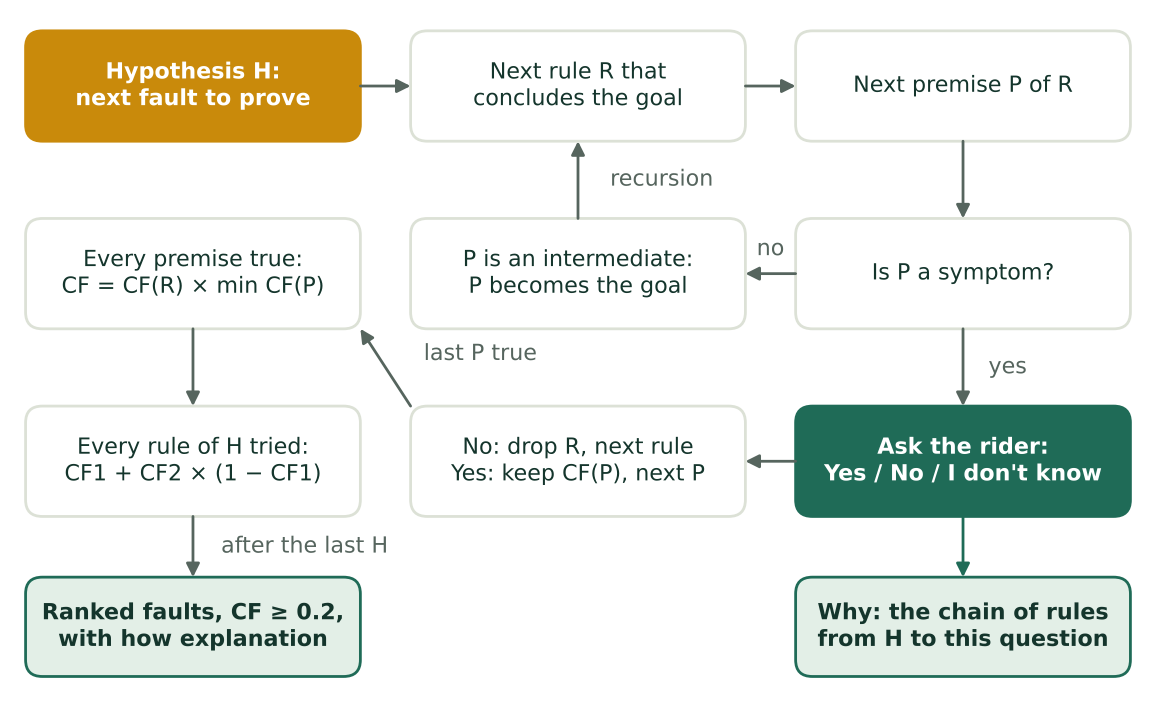
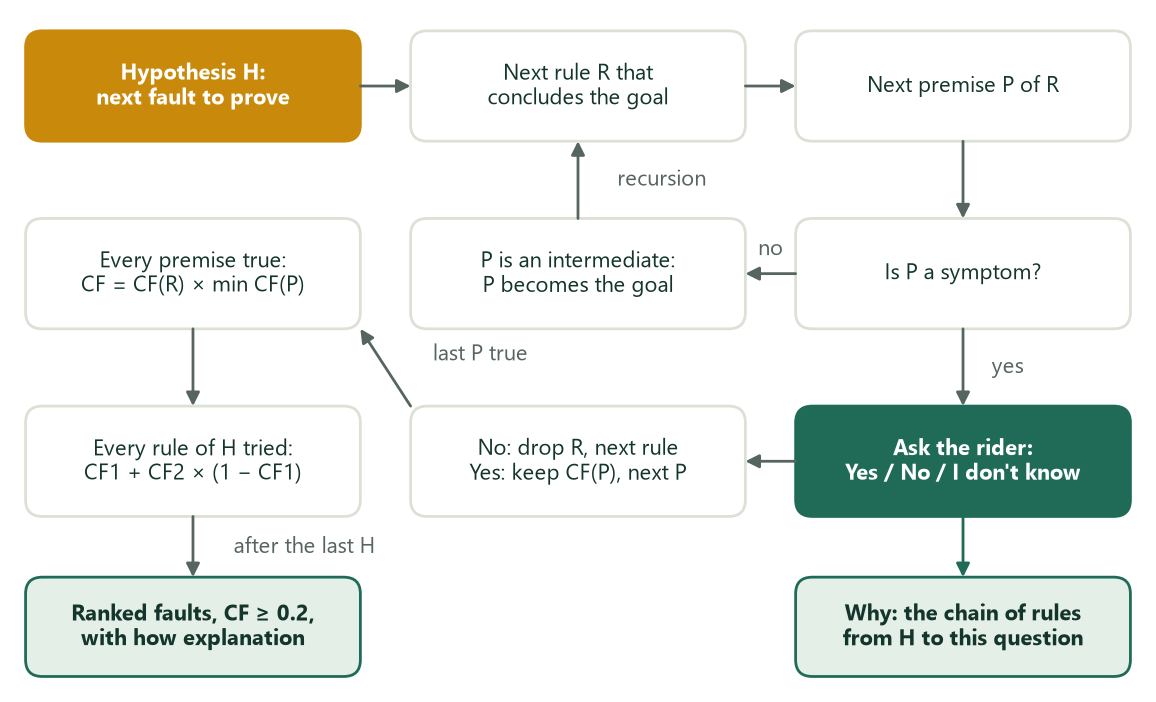
README: MotoLogic flow, held-out NLU set, tools/shots.py; regenerate evaluation charts with the new assistant numbers

diff --git a/README.md b/README.md
@@ -73,7 +73,7 @@ Cách viết luật: xem [docs/kb_format.md](docs/kb_format.md); forward chainin
 
 ### Chạy chương trình
 
-Giao diện cửa sổ (Tkinter, có sẵn trong Python), có chế độ sáng và tối. Màn mở đầu là **Trợ lý chẩn đoán** (Lâm): kể tình trạng xe bằng tiếng Việt hoặc tiếng Anh, trợ lý tách triệu chứng (`src/nlu.py`), chỉ hỏi những câu có information gain cao nhất (`src/interview.py`), rồi kết luận bằng luật và kiểm chứng bằng Wang. Đánh giá: `python src/evaluate_assistant.py`. Khung và màn Cơ sở tri thức: Lâm; màn Theo triệu chứng: Giang (`src/gui_forward.py`); màn Hỏi đáp từng câu: Khoa (`src/gui_backward.py`). Cách cắm màn hình: [docs/ui_guide.md](docs/ui_guide.md) mục 9. Thêm `--lang=en` để chạy tiếng Anh.
+Giao diện cửa sổ (Tkinter, có sẵn trong Python), có chế độ sáng và tối. Màn mở đầu là **MotoLogic – Chẩn đoán** (Giang, `src/gui_diagnosis.py`), 3 bước: khai báo xe; hỏi đáp từng câu (hỏi bộ phận trước, rồi backward chaining), chọn triệu chứng (forward chaining) hoặc kể bằng lời (có câu ví dụ bấm để điền; trợ lý của Lâm tách triệu chứng bằng `src/nlu.py` và hỏi câu có information gain cao nhất bằng `src/interview.py`, không nhận ra gì thì có nút chuyển sang hỏi đáp); cuối cùng là kết quả với độ tin cậy, chuỗi luật và nút kiểm tra chéo bằng Wang. Đánh giá trợ lý: `python src/evaluate_assistant.py` (có tập kiểm tra riêng `tests/data/heldout_descriptions.json`). Chụp mọi màn để soát giao diện: `python tools/shots.py`. Khung và màn Cơ sở tri thức: Lâm; màn Theo triệu chứng: Giang (`src/gui_forward.py`); màn Hỏi đáp từng câu: Khoa (`src/gui_backward.py`). Cách cắm màn hình: [docs/ui_guide.md](docs/ui_guide.md) mục 9. Thêm `--lang=en` để chạy tiếng Anh.
 
 ```bash
 python src/gui.py
